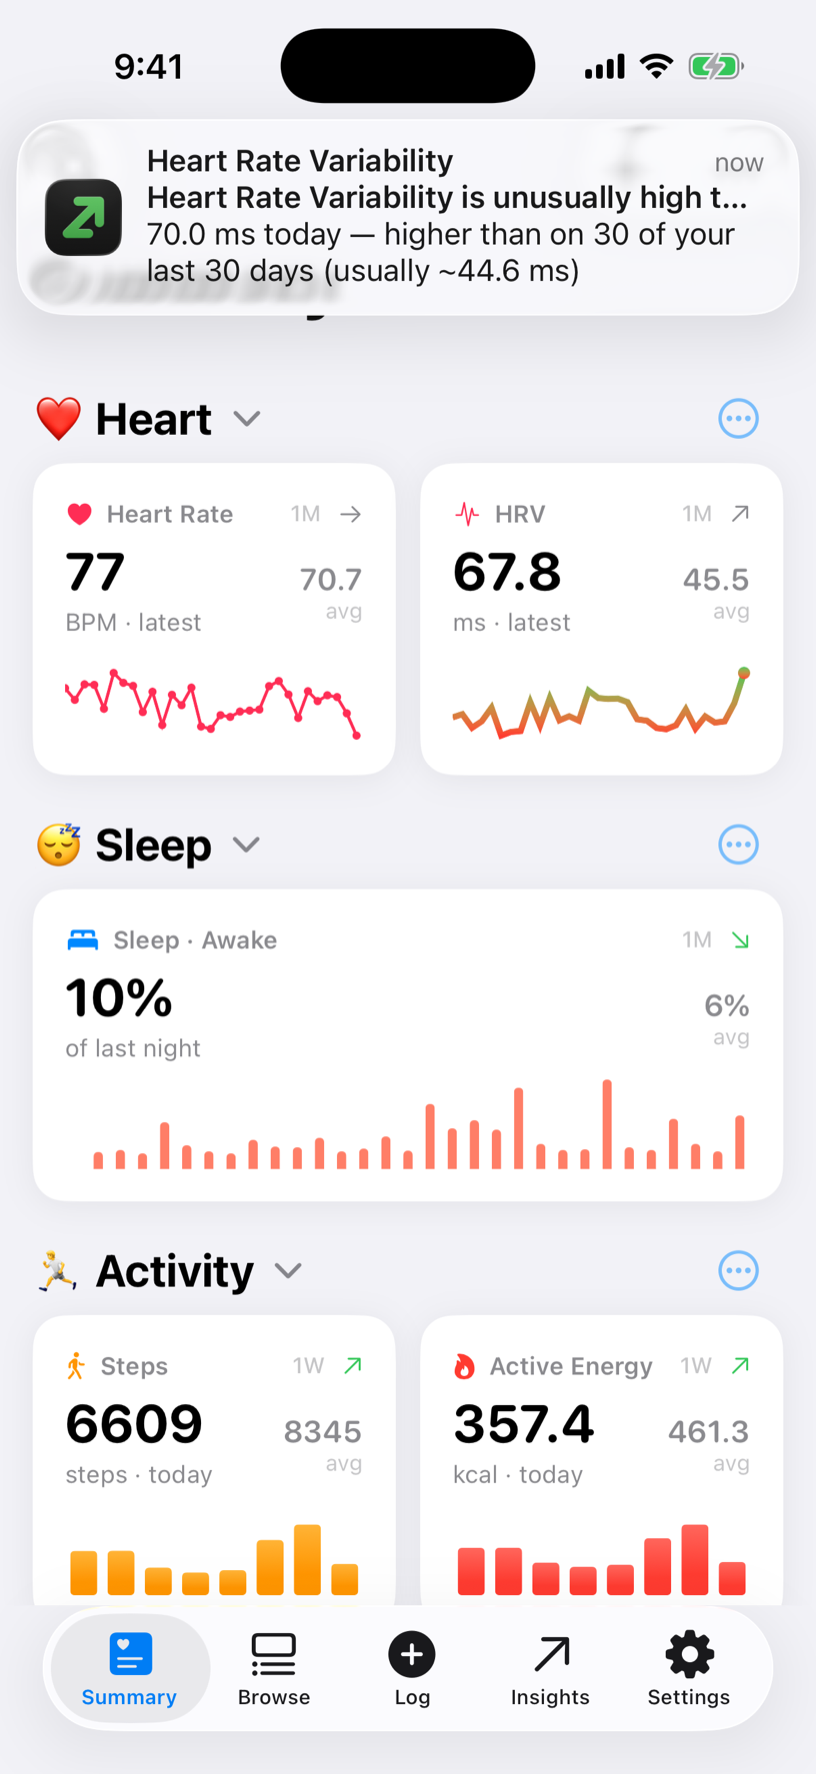
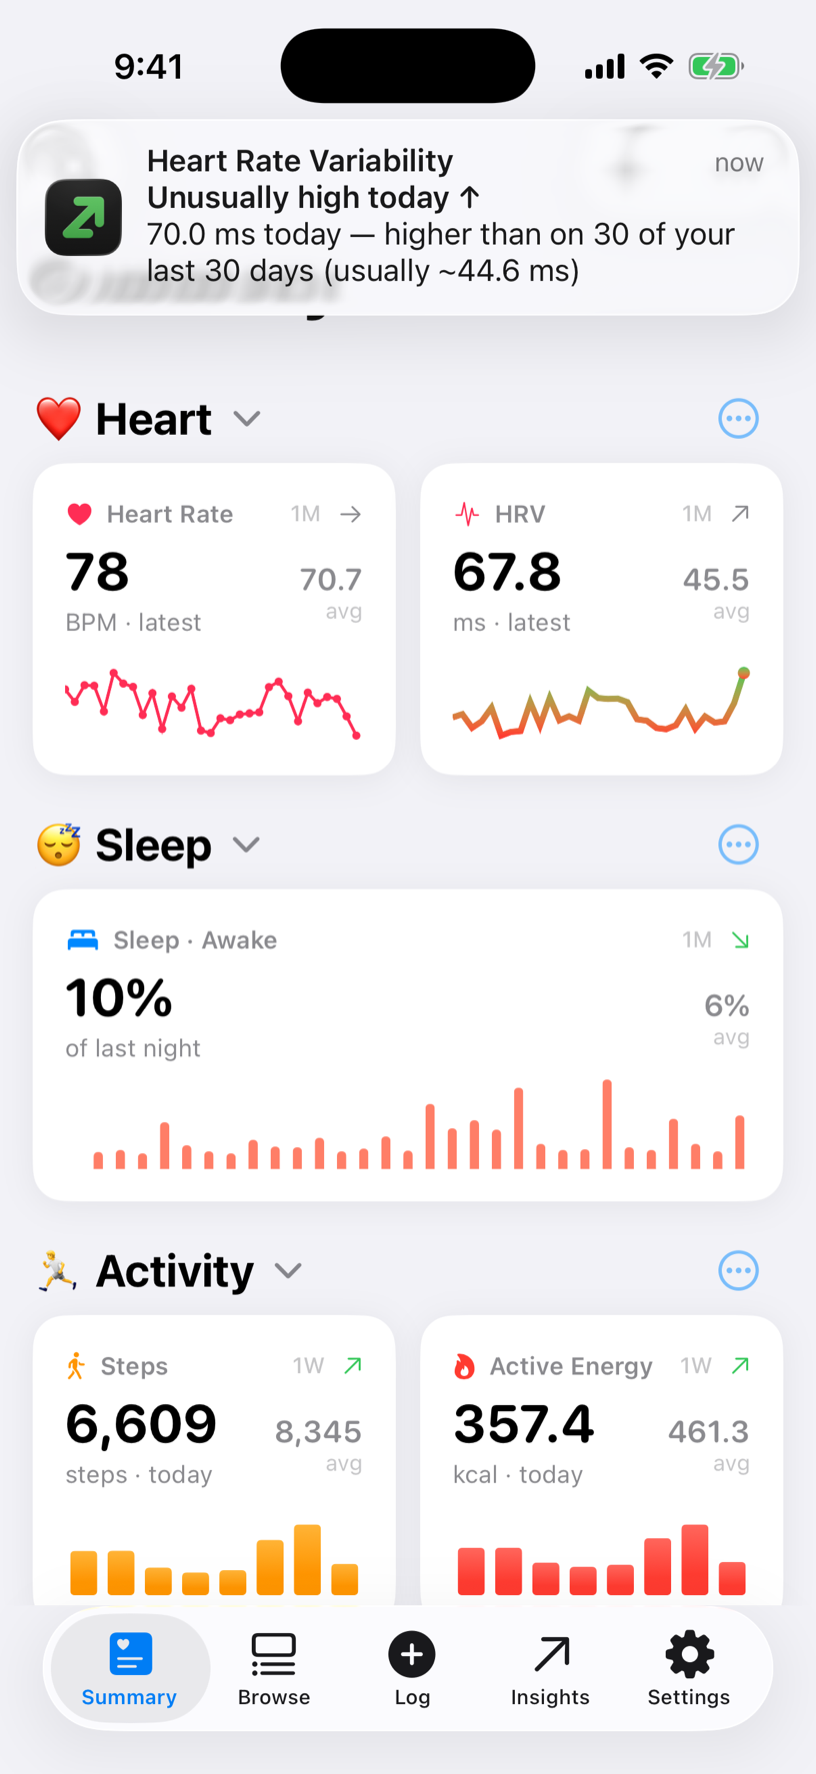
Remove eyebrow headings site-wide; final Charts hero screenshot
Drops the small uppercase eyebrow labels above headings on the home, Charts
and privacy pages (plus their CSS and the dot's pulse animation). The Charts
hero screenshot now shows the shortened notification ("Unusually high today")
and grouped numbers ("6,609").

diff --git a/charts/index.html b/charts/index.html
@@ -213,16 +213,6 @@
       gap: 56px; align-items: center;
     }
 
-    .hero-eyebrow {
-      display: inline-flex; align-items: center; gap: 8px;
-      font-size: 0.75rem; font-weight: 600;
-      letter-spacing: 0.12em; text-transform: uppercase;
-      color: var(--green); margin-bottom: 26px;
-    }
-    .hero-eyebrow-dot {
-      width: 6px; height: 6px; border-radius: 50%; background: var(--green);
-    }
-
     .hero-headline {
       font-size: clamp(2.4rem,5.4vw,3.9rem);
       font-weight: 700; line-height: 1.06;
@@ -456,11 +446,6 @@
 
     /* ── Animations ── */
     @media (prefers-reduced-motion: no-preference) {
-      @keyframes pulse {
-        0%,100% { opacity:1; transform:scale(1); }
-        50%      { opacity:.45; transform:scale(.85); }
-      }
-      .hero-eyebrow-dot { animation: pulse 2.4s ease-in-out infinite; }
 
       @keyframes fadeUp {
         from { opacity:0; transform:translateY(22px); }
@@ -590,10 +575,6 @@
       <div class="container">
         <div class="hero-inner">
           <div>
-            <p class="hero-eyebrow fade-up">
-              <span class="hero-eyebrow-dot"></span>
-              Coming soon · iPhone &amp; Mac
-            </p>
             <h1 class="hero-headline fade-up">
               Choose what matters.<br/>Know when it <em>changes.</em>
             </h1>
@@ -618,7 +599,7 @@
             <picture>
               <source srcset="/assets/charts/summary-light.png" media="(prefers-color-scheme: light)" />
               <img src="/assets/charts/summary-dark.png" width="816" height="1774"
-                   alt="Charts on iPhone: the Summary screen grouped into Heart, Sleep and Activity sections, with a notification arriving — Heart Rate Variability is unusually high today, 70 ms, higher than on 30 of the last 30 days." />
+                   alt="Charts on iPhone: the Summary screen grouped into Heart, Sleep and Activity sections, with a notification arriving — Heart Rate Variability, unusually high today: 70 ms, higher than on 30 of the last 30 days." />
             </picture>
           </div>
         </div>

diff --git a/index.html b/index.html
@@ -203,21 +203,6 @@
       pointer-events: none;
     }
 
-    .hero-eyebrow {
-      display: inline-flex; align-items: center; gap: 8px;
-      font-size: 0.75rem; font-weight: 600;
-      letter-spacing: 0.12em; text-transform: uppercase;
-      color: var(--green); margin-bottom: 28px;
-    }
-    .hero-eyebrow-dot {
-      width: 6px; height: 6px; border-radius: 50%; background: var(--green);
-      animation: pulse 2.4s ease-in-out infinite;
-    }
-    @keyframes pulse {
-      0%,100% { opacity:1; transform:scale(1); }
-      50%      { opacity:.45; transform:scale(.85); }
-    }
-
     .hero-headline {
       font-size: clamp(2.4rem,6vw,4.2rem);
       font-weight: 700; line-height: 1.06;
@@ -452,13 +437,6 @@
     }
     .waitlist-card > * { position: relative; z-index: 1; }
 
-    .waitlist-eyebrow {
-      display: inline-flex; align-items: center; gap: 8px;
-      font-size: 0.72rem; font-weight: 600;
-      letter-spacing: 0.12em; text-transform: uppercase;
-      color: var(--green); margin-bottom: 18px;
-    }
-
     .waitlist-title {
       font-size: clamp(1.5rem, 3.5vw, 2.05rem);
       font-weight: 700; letter-spacing: -0.025em; line-height: 1.15;
@@ -640,10 +618,6 @@
     <!-- ── Hero ── -->
     <section class="hero">
       <div class="container">
-        <p class="hero-eyebrow fade-up">
-          <span class="hero-eyebrow-dot"></span>
-          Tools for better living
-        </p>
         <h1 class="hero-headline fade-up">
           A better life is closer<br/>than you <em>think.</em>
         </h1>
@@ -657,10 +631,6 @@
     <section id="waitlist" class="waitlist">
       <div class="container">
         <div class="waitlist-card fade-up">
-          <p class="waitlist-eyebrow">
-            <span class="hero-eyebrow-dot"></span>
-            Join the waitlist
-          </p>
           <h2 class="waitlist-title">Be first when the next tool <em>drops.</em></h2>
           <p class="waitlist-sub">
             One short email when something worth your time is ready. No spam, no noise — unsubscribe in one click, anytime.

diff --git a/privacy/index.html b/privacy/index.html
@@ -167,12 +167,6 @@
 
     .policy { max-width: 640px; }
 
-    .eyebrow {
-      font-size: 0.72rem; font-weight: 600;
-      letter-spacing: 0.14em; text-transform: uppercase;
-      color: var(--green); margin-bottom: 16px;
-    }
-
     h1 {
       font-size: clamp(1.9rem, 5vw, 2.6rem);
       font-weight: 700; letter-spacing: -0.03em;
@@ -305,7 +299,6 @@
   <main>
     <div class="container">
       <article class="policy">
-        <p class="eyebrow">Privacy Policy</p>
         <h1>Your data is yours. We don't want it.</h1>
         <p class="updated">Last updated 15 September 2026</p>
 
